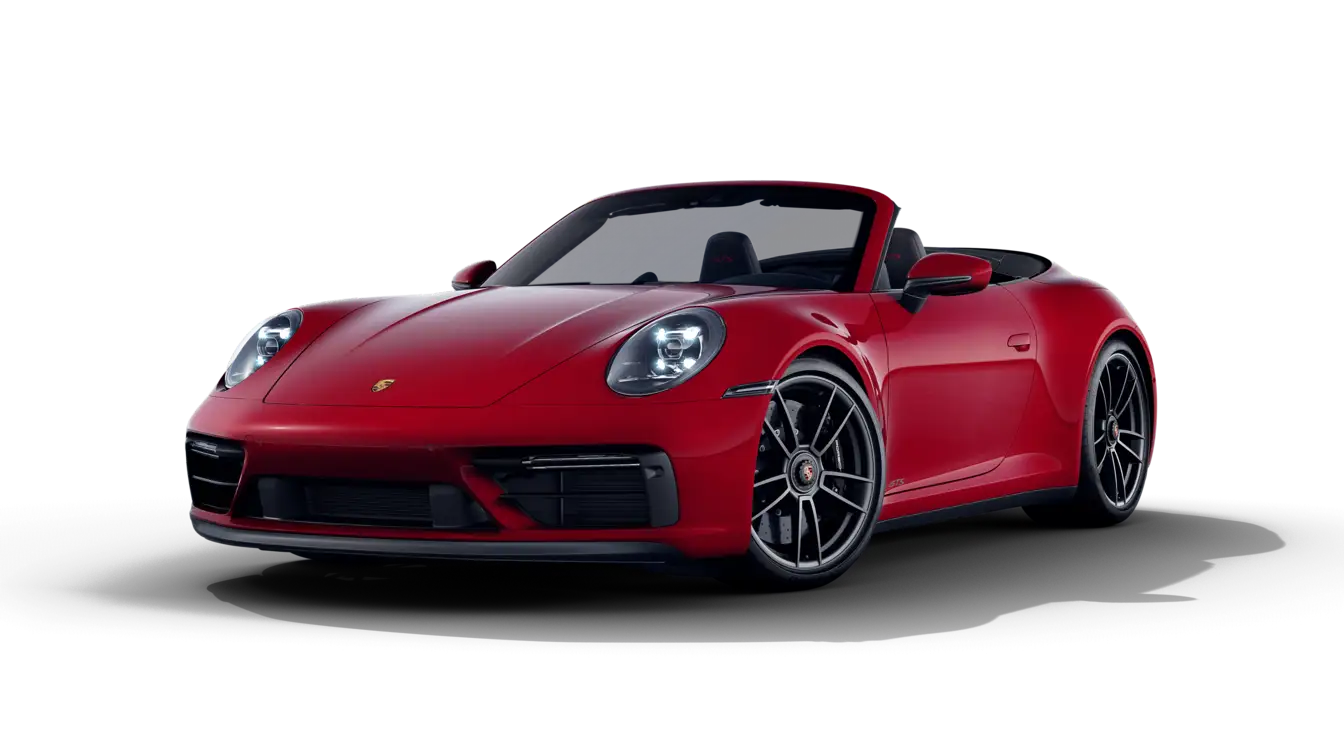
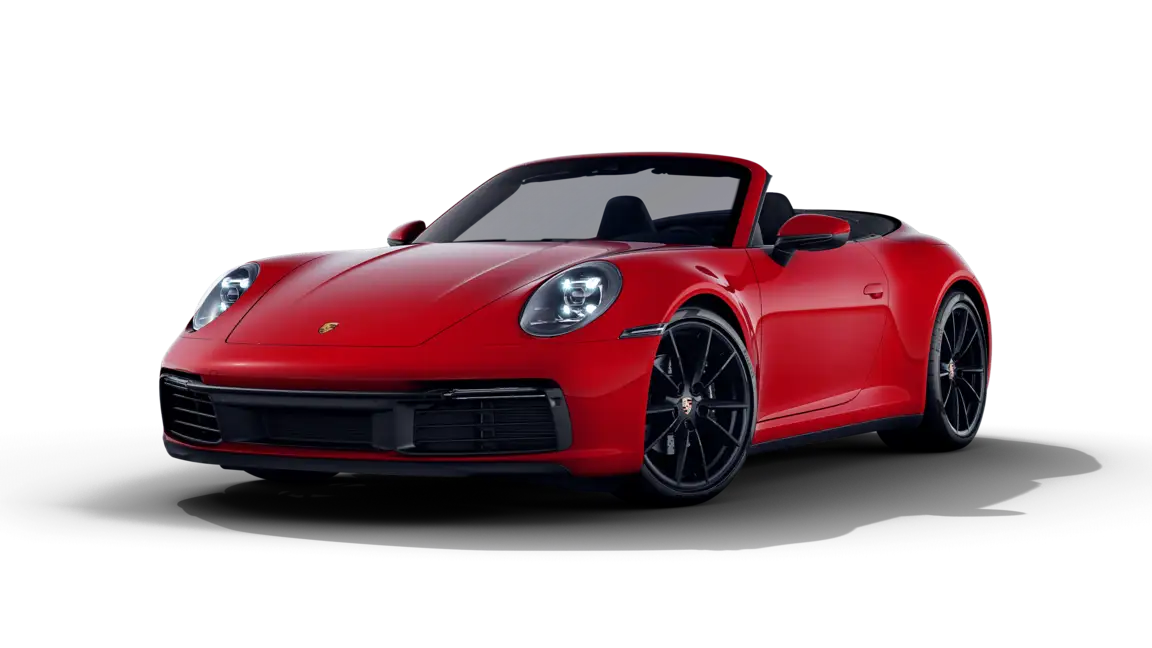
update

Changed region(s): [[0.125, 0.216, 0.875, 0.7716]]

diff --git a/style.css b/style.css
@@ -15,13 +15,13 @@
 }
 
 .slide1 {
-  background: url(./red2.webp) no-repeat rgba(255, 0, 0, 0.1);
+  background: url(./red.webp) no-repeat rgba(255, 0, 0, 0.1);
   right: 0;
   z-index: 1;
 }
 
 .slide2 {
-  background: url(./blue2.webp) no-repeat rgba(81, 110, 255, 0.1);
+  background: url(./blue.webp) no-repeat rgba(81, 110, 255, 0.1);
   left: 50%;
 }
 
